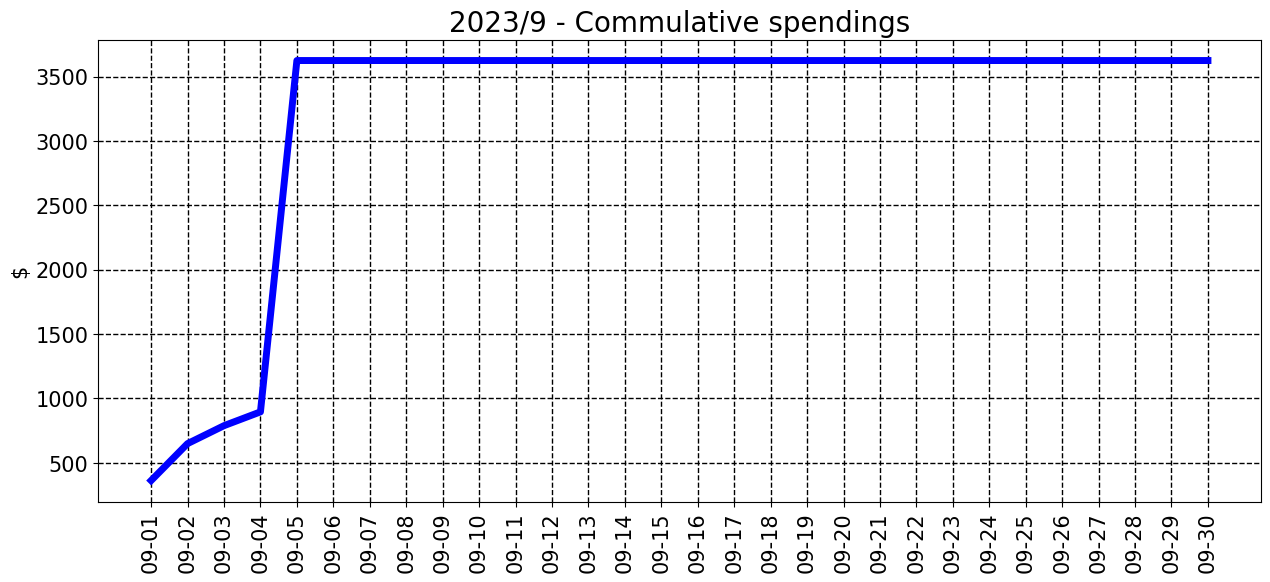
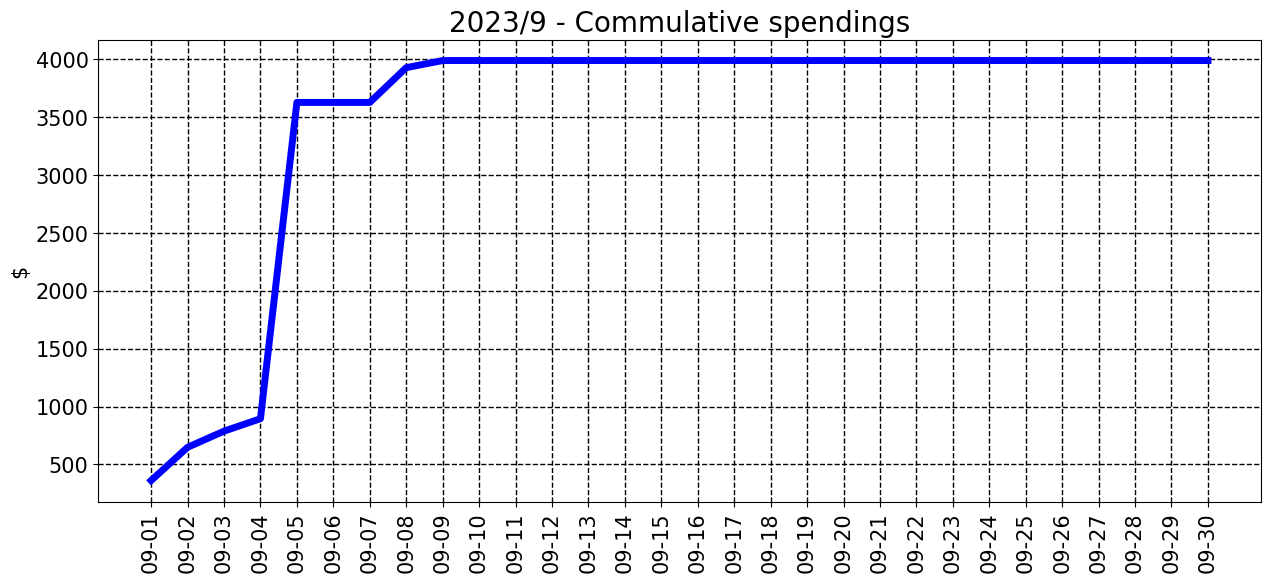
commit from python

Changed region(s): [[0.0307, 0.0928, 0.9827, 0.5258], [0.0307, 0.6495, 1.0, 0.8041], [0.0307, 0.5567, 0.9827, 0.6495]]

diff --git a/README.md b/README.md
@@ -7,7 +7,7 @@ __________________________________
 <sub><sup>
 | Spent | Avg daily | End of month projection | Spent since 2023/7 |
 |---|---|---|---|
-| $3625.0  |  $453.1  | $13593.0  |  $8849.0  |
+| $3986.0  |  $362.4  | $10872.0  |  $9211.0  |
 </sub></sup>
 __________________________________
 ![graph_9_sum](graph_9_sum.png)
